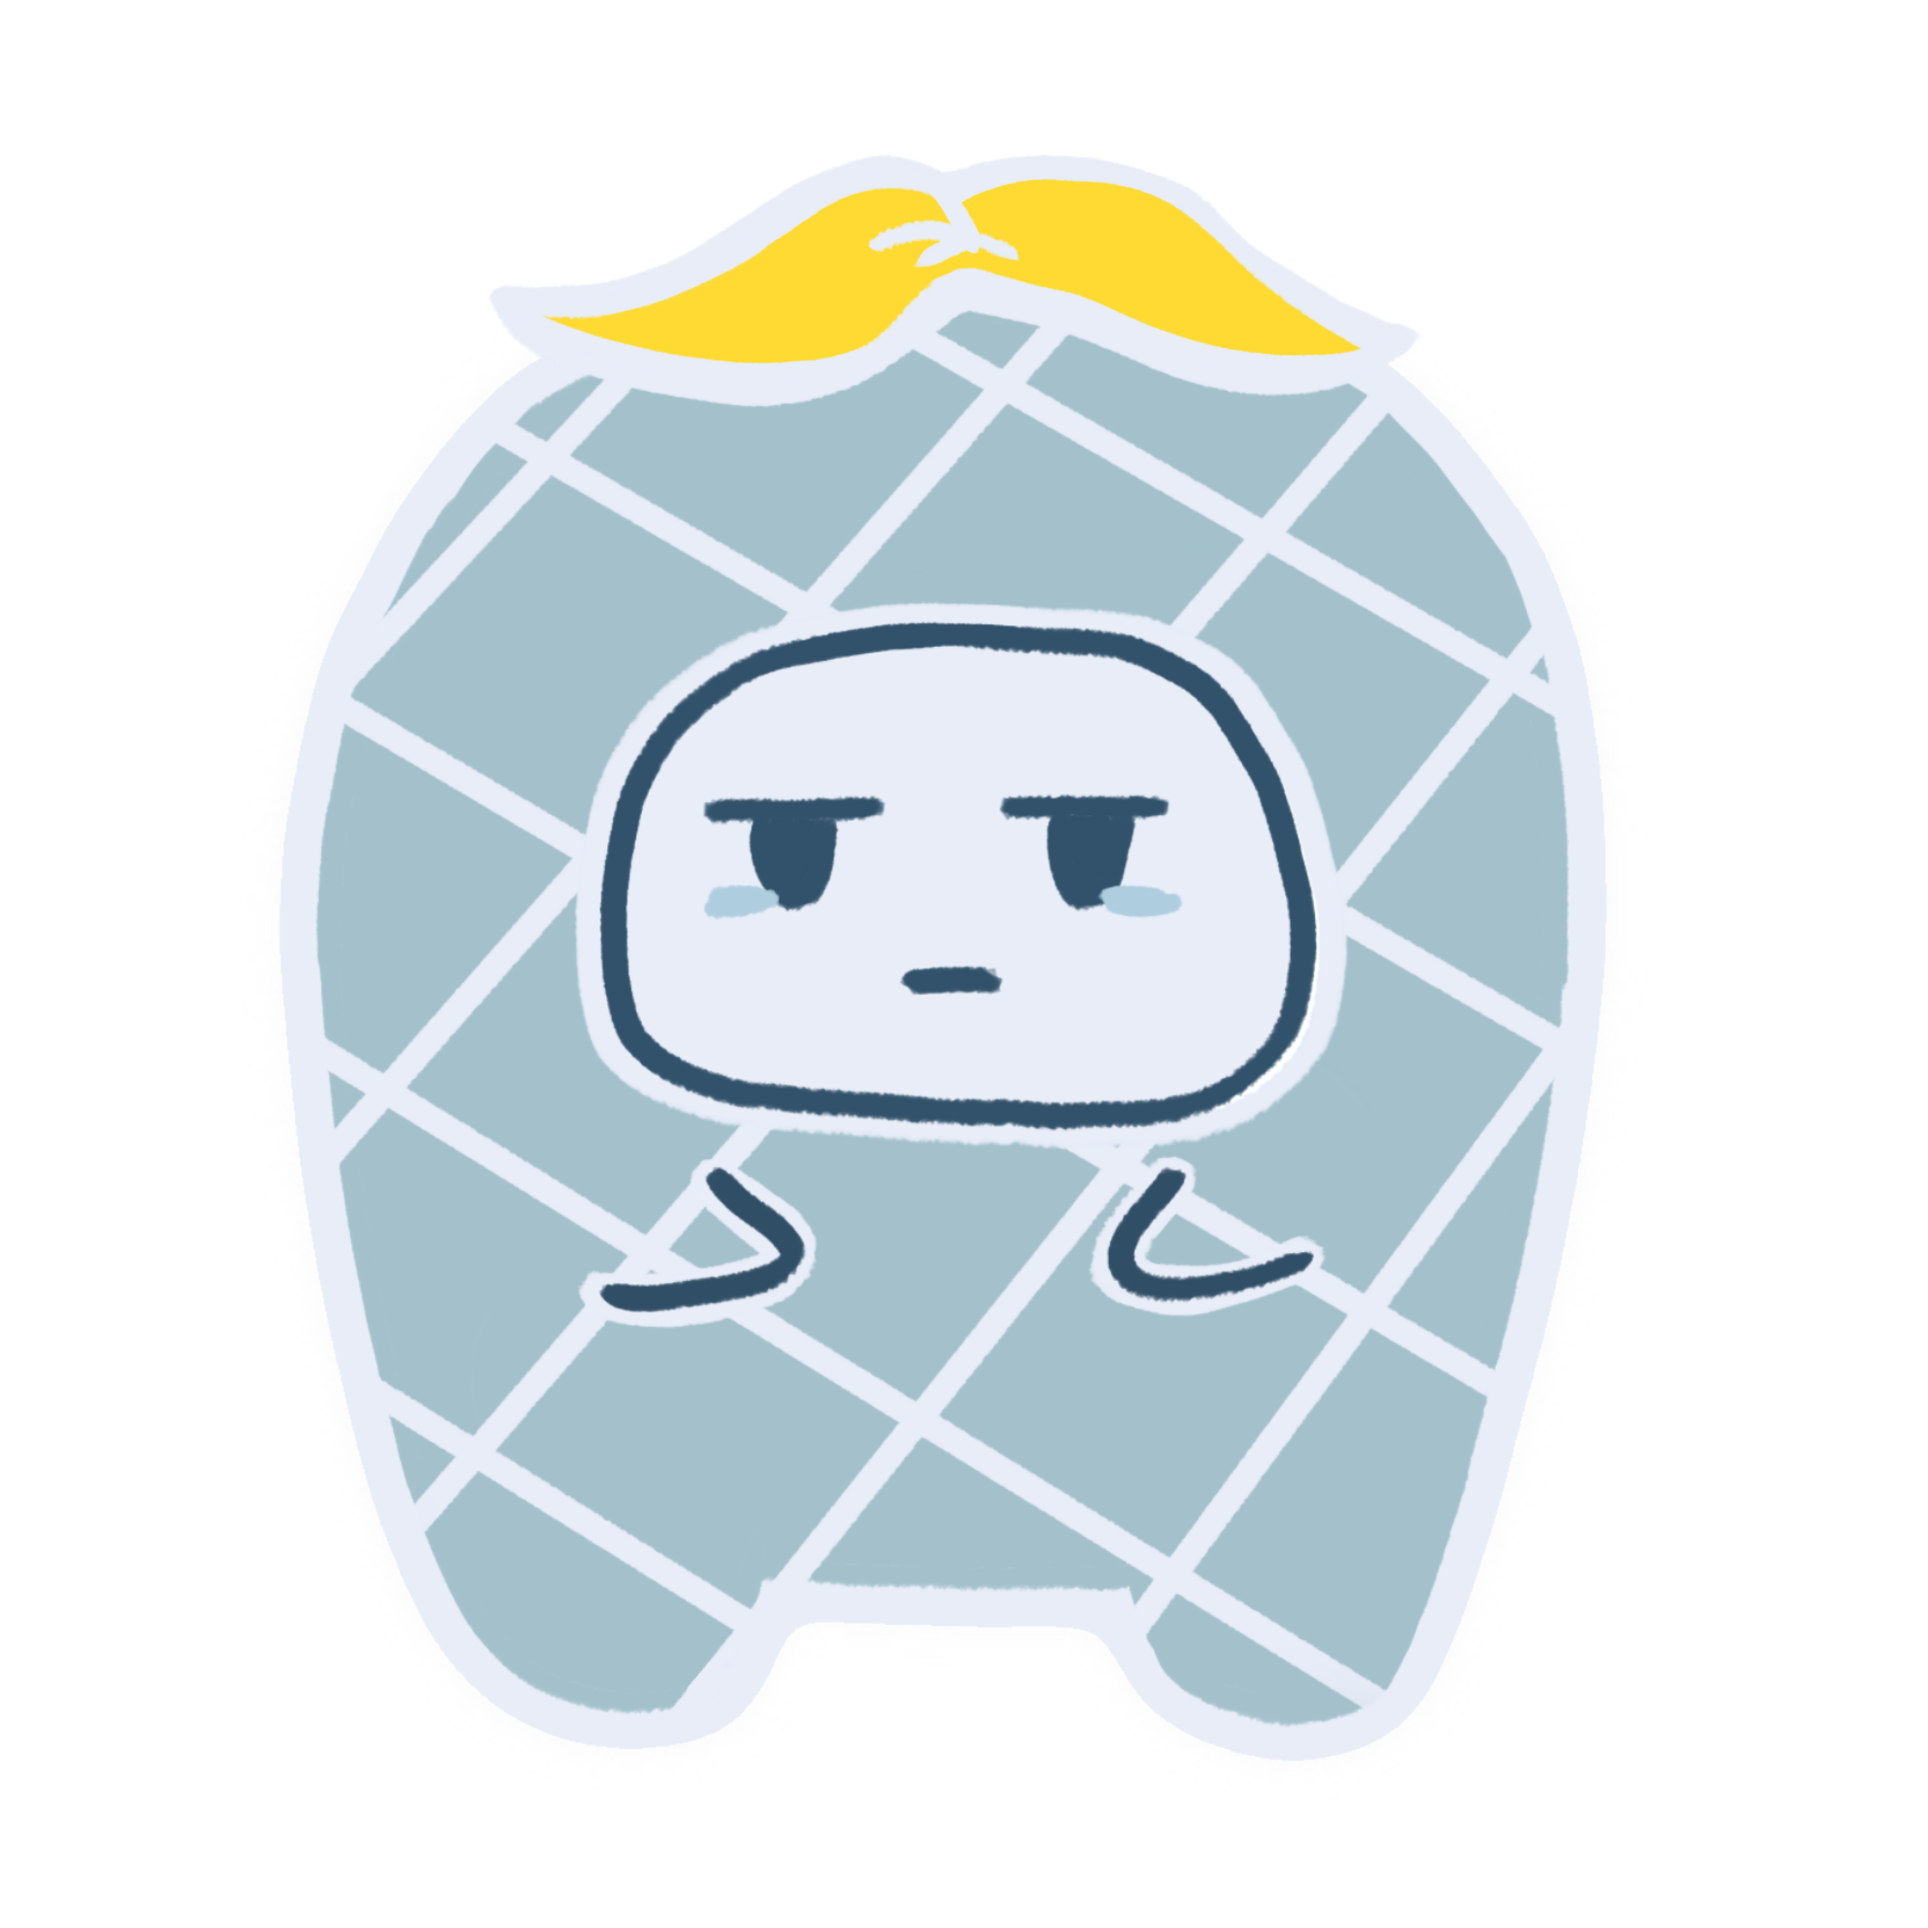
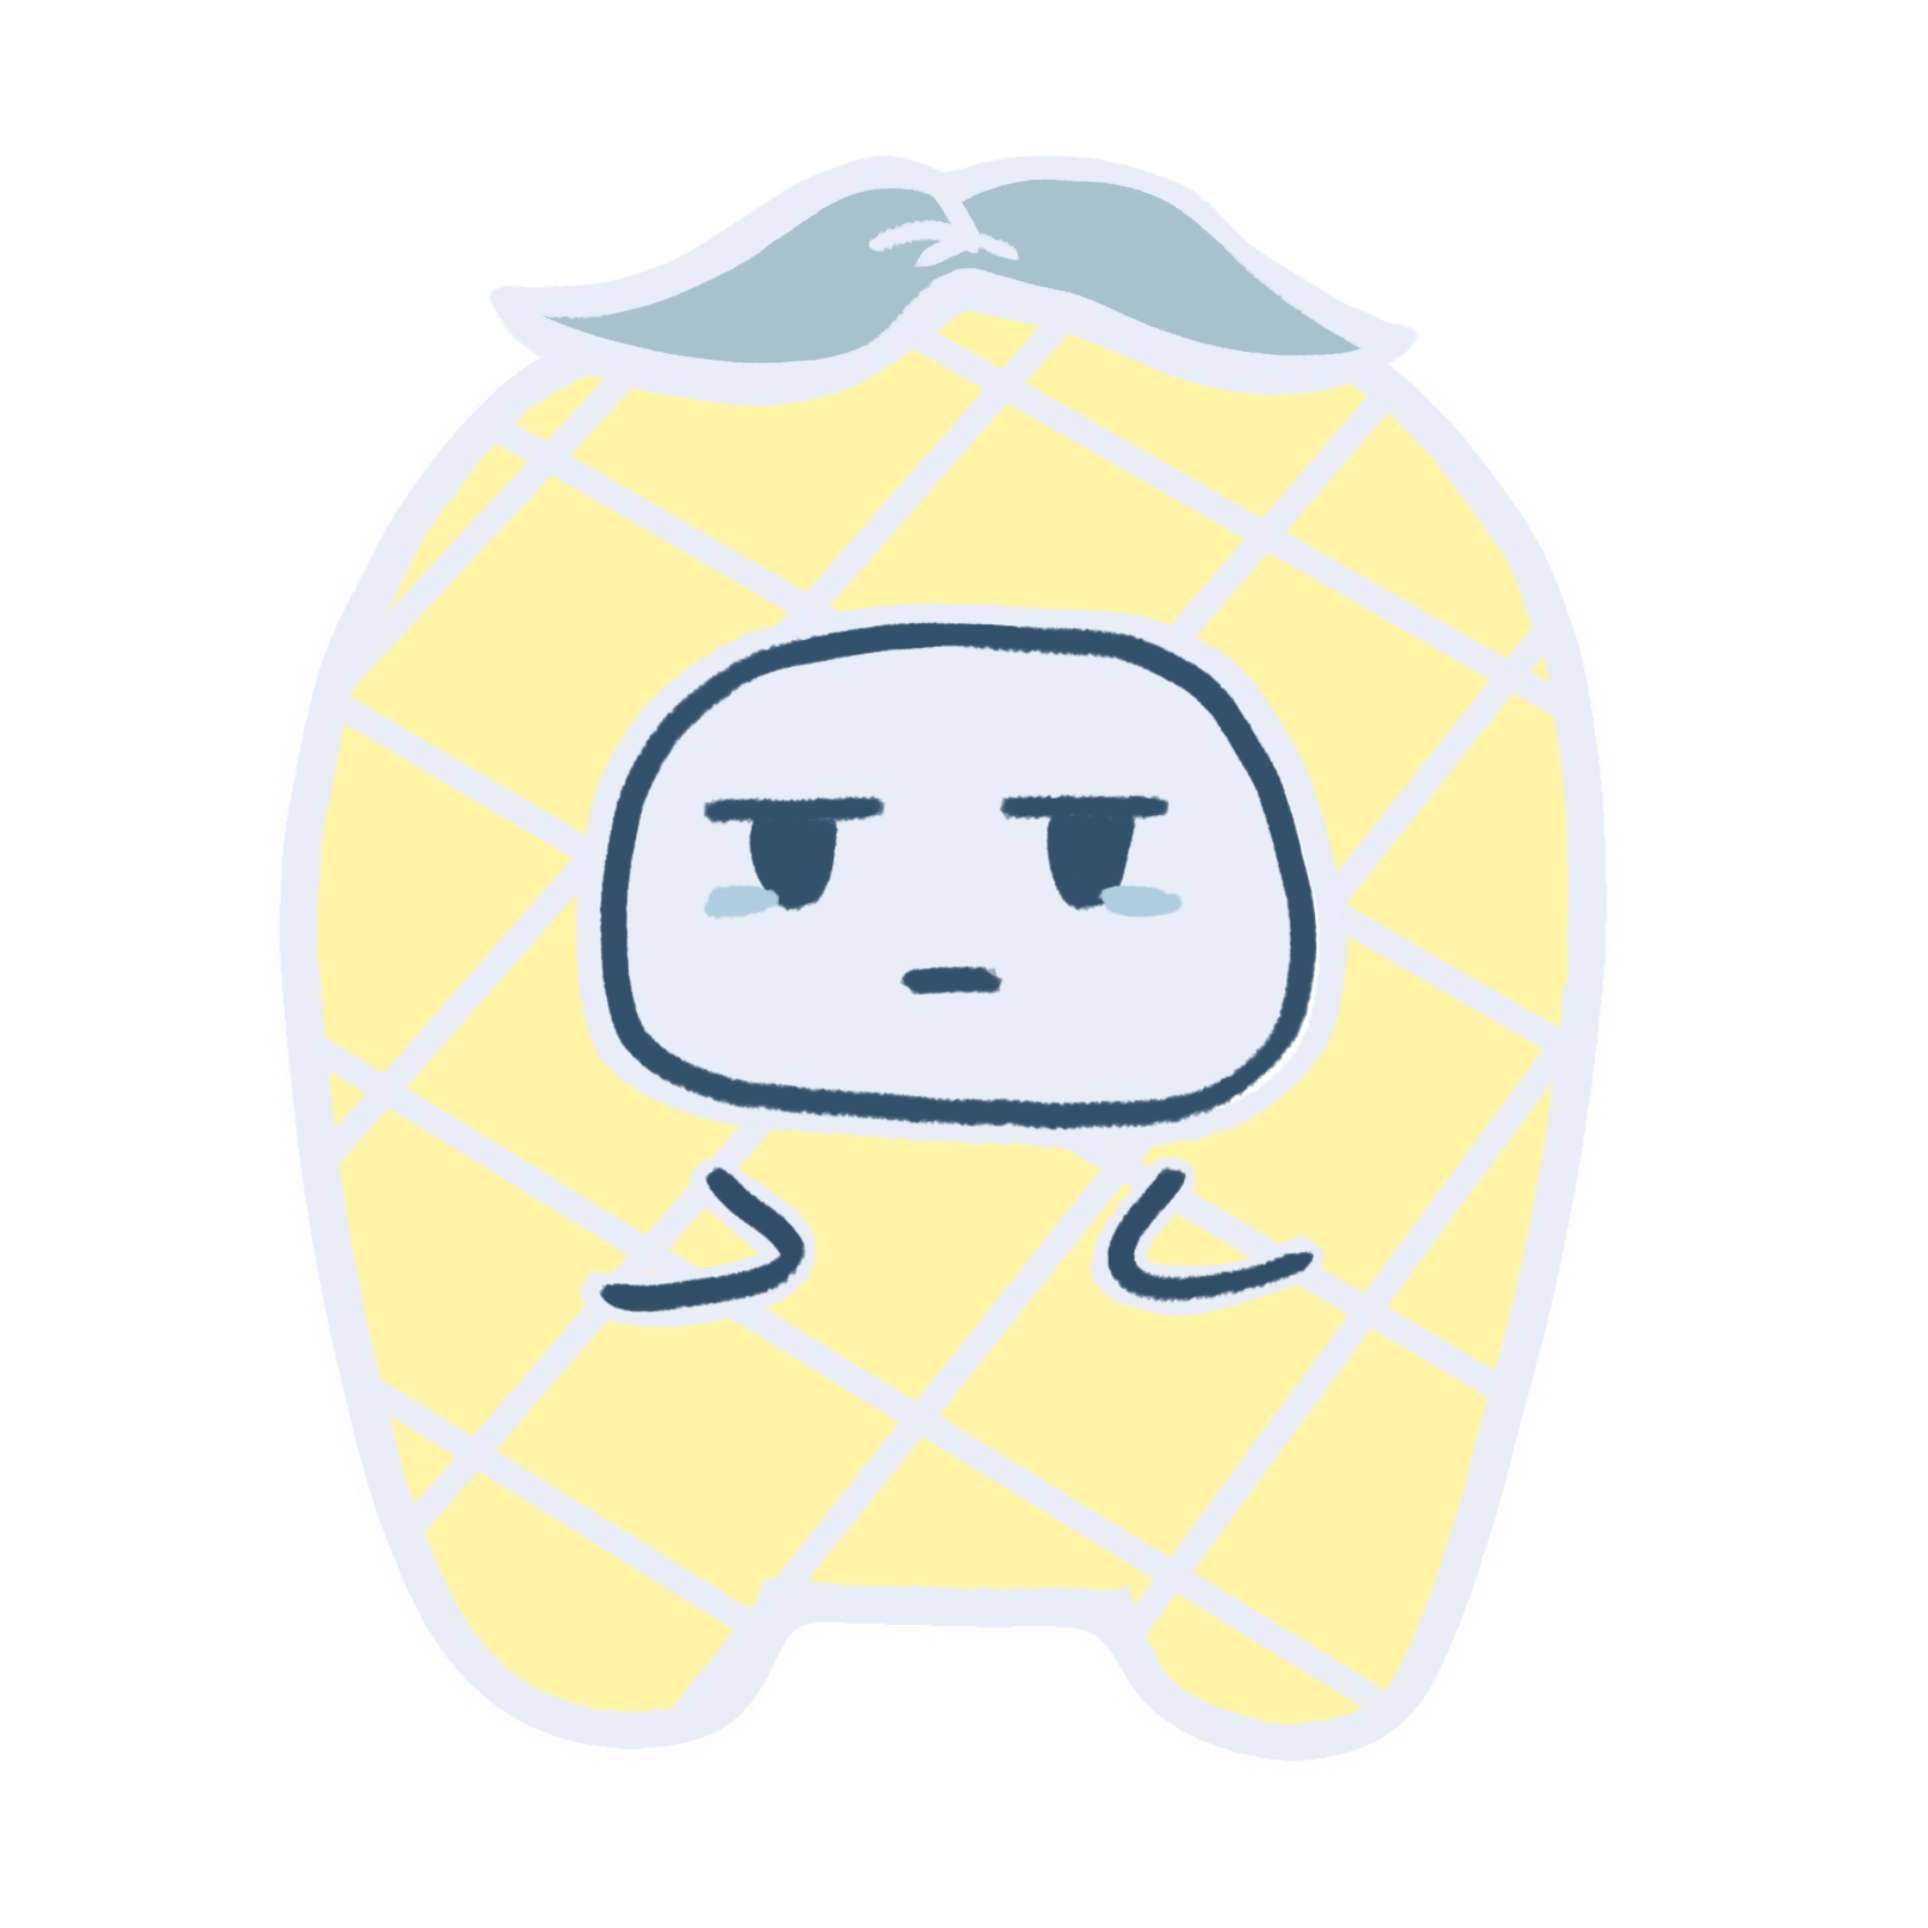
deleted:    pic.jpg

Changed region(s): [[0.1562, 0.0938, 0.8125, 0.9062]]

diff --git a/index.html b/index.html
@@ -47,14 +47,14 @@
         <div class="block">
             <header>
 
-                <img src="./upset.png" width="300px" />
+                <img src="./peach.png" width="300px" />
             </header>
             <div class="data-wrap">
 
 
                 <h1> wahaha</h1>
                 <p>
-                    這我
+                    木炭水蜜桃是一顆陽光開朗的水蜜桃
                 </p>
 
                 <ul class="style1">
